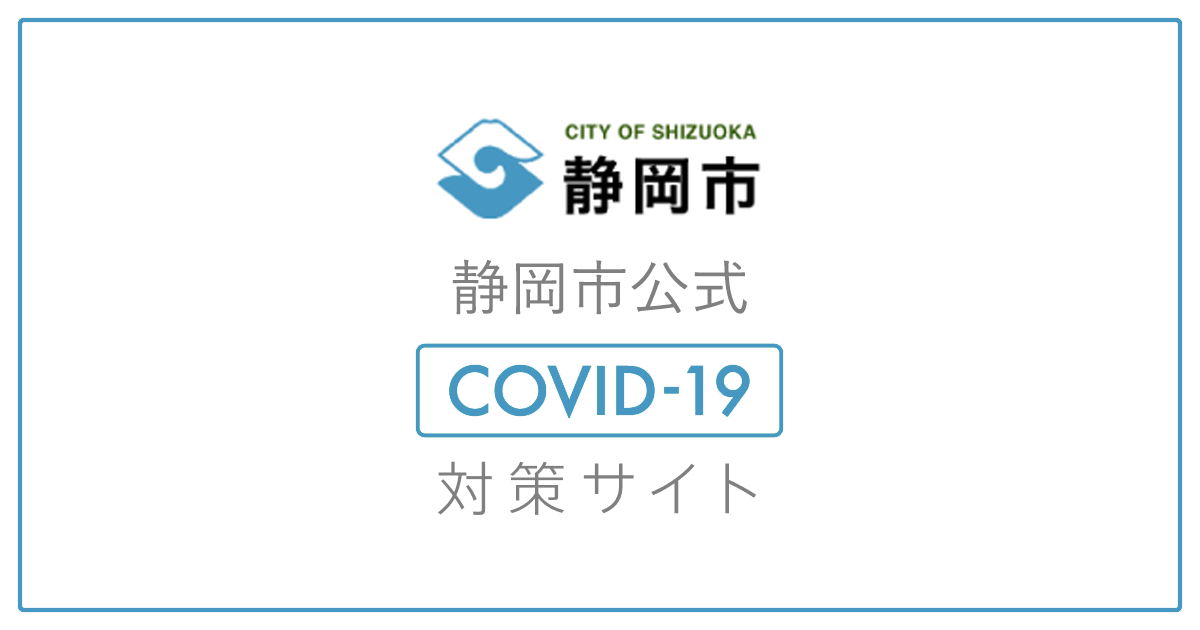
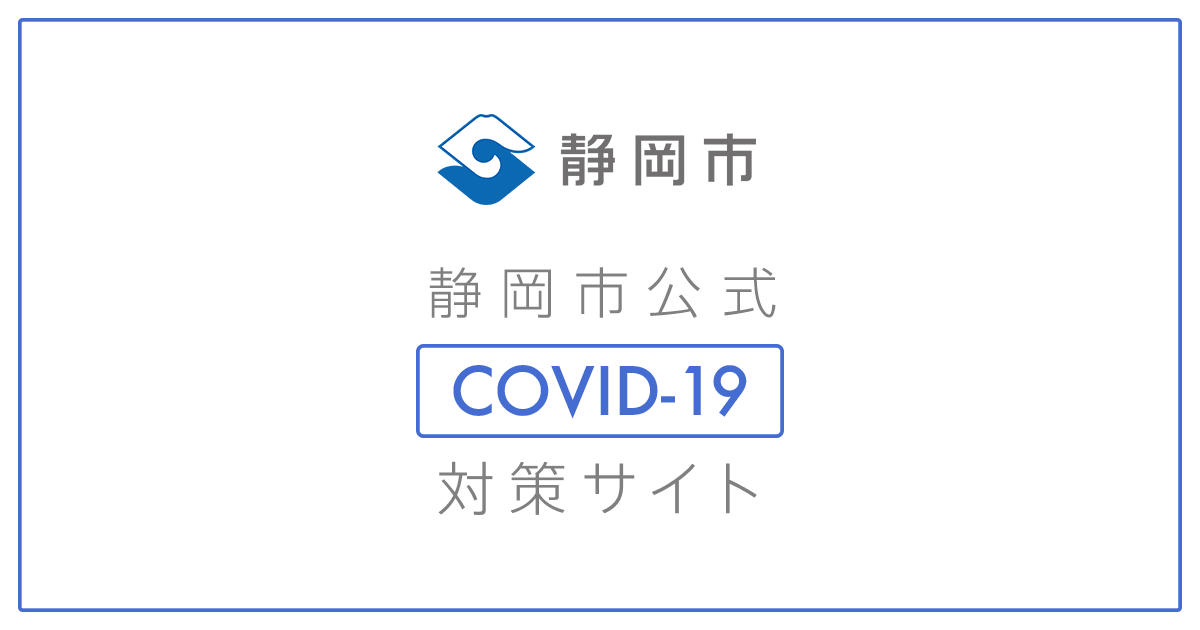
アイコン、素材更新

diff --git a/components/SideNavigation.vue b/components/SideNavigation.vue
@@ -317,7 +317,7 @@ export default Vue.extend({
 }
 
 .SideNavigation-HeaderLogo {
-  width: 200px;
+  width: 120px;
   @include lessThan($tiny) {
     width: 100px;
   }
